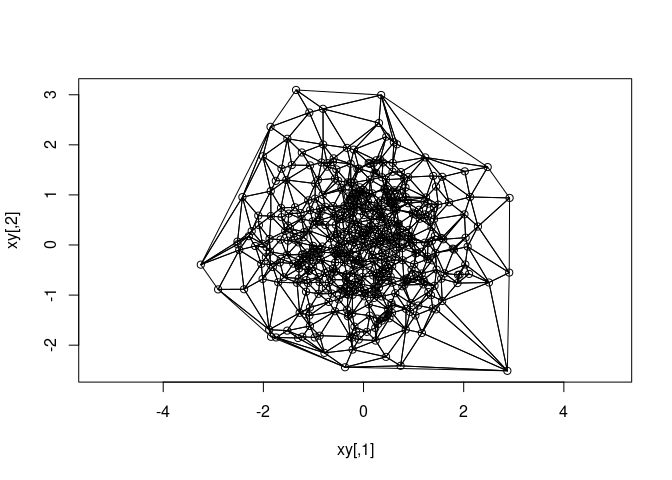
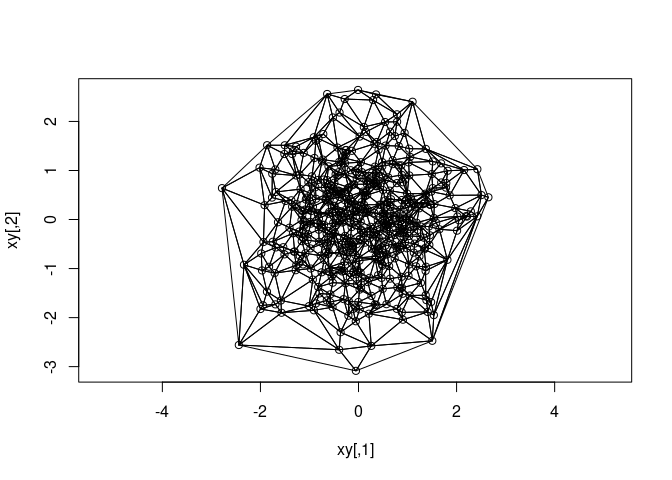
scaff

diff --git a/CODE_OF_CONDUCT.md b/CODE_OF_CONDUCT.md
@@ -1,0 +1,126 @@
+# Contributor Covenant Code of Conduct
+
+## Our Pledge
+
+We as members, contributors, and leaders pledge to make participation in our
+community a harassment-free experience for everyone, regardless of age, body
+size, visible or invisible disability, ethnicity, sex characteristics, gender
+identity and expression, level of experience, education, socio-economic status,
+nationality, personal appearance, race, caste, color, religion, or sexual
+identity and orientation.
+
+We pledge to act and interact in ways that contribute to an open, welcoming,
+diverse, inclusive, and healthy community.
+
+## Our Standards
+
+Examples of behavior that contributes to a positive environment for our
+community include:
+
+* Demonstrating empathy and kindness toward other people
+* Being respectful of differing opinions, viewpoints, and experiences
+* Giving and gracefully accepting constructive feedback
+* Accepting responsibility and apologizing to those affected by our mistakes,
+  and learning from the experience
+* Focusing on what is best not just for us as individuals, but for the overall
+  community
+
+Examples of unacceptable behavior include:
+
+* The use of sexualized language or imagery, and sexual attention or advances of
+  any kind
+* Trolling, insulting or derogatory comments, and personal or political attacks
+* Public or private harassment
+* Publishing others' private information, such as a physical or email address,
+  without their explicit permission
+* Other conduct which could reasonably be considered inappropriate in a
+  professional setting
+
+## Enforcement Responsibilities
+
+Community leaders are responsible for clarifying and enforcing our standards of
+acceptable behavior and will take appropriate and fair corrective action in
+response to any behavior that they deem inappropriate, threatening, offensive,
+or harmful.
+
+Community leaders have the right and responsibility to remove, edit, or reject
+comments, commits, code, wiki edits, issues, and other contributions that are
+not aligned to this Code of Conduct, and will communicate reasons for moderation
+decisions when appropriate.
+
+## Scope
+
+This Code of Conduct applies within all community spaces, and also applies when
+an individual is officially representing the community in public spaces.
+Examples of representing our community include using an official e-mail address,
+posting via an official social media account, or acting as an appointed
+representative at an online or offline event.
+
+## Enforcement
+
+Instances of abusive, harassing, or otherwise unacceptable behavior may be
+reported to the community leaders responsible for enforcement at mdsumner@gmail.com. 
+All complaints will be reviewed and investigated promptly and fairly.
+
+All community leaders are obligated to respect the privacy and security of the
+reporter of any incident.
+
+## Enforcement Guidelines
+
+Community leaders will follow these Community Impact Guidelines in determining
+the consequences for any action they deem in violation of this Code of Conduct:
+
+### 1. Correction
+
+**Community Impact**: Use of inappropriate language or other behavior deemed
+unprofessional or unwelcome in the community.
+
+**Consequence**: A private, written warning from community leaders, providing
+clarity around the nature of the violation and an explanation of why the
+behavior was inappropriate. A public apology may be requested.
+
+### 2. Warning
+
+**Community Impact**: A violation through a single incident or series of
+actions.
+
+**Consequence**: A warning with consequences for continued behavior. No
+interaction with the people involved, including unsolicited interaction with
+those enforcing the Code of Conduct, for a specified period of time. This
+includes avoiding interactions in community spaces as well as external channels
+like social media. Violating these terms may lead to a temporary or permanent
+ban.
+
+### 3. Temporary Ban
+
+**Community Impact**: A serious violation of community standards, including
+sustained inappropriate behavior.
+
+**Consequence**: A temporary ban from any sort of interaction or public
+communication with the community for a specified period of time. No public or
+private interaction with the people involved, including unsolicited interaction
+with those enforcing the Code of Conduct, is allowed during this period.
+Violating these terms may lead to a permanent ban.
+
+### 4. Permanent Ban
+
+**Community Impact**: Demonstrating a pattern of violation of community
+standards, including sustained inappropriate behavior, harassment of an
+individual, or aggression toward or disparagement of classes of individuals.
+
+**Consequence**: A permanent ban from any sort of public interaction within the
+community.
+
+## Attribution
+
+This Code of Conduct is adapted from the [Contributor Covenant][homepage],
+version 2.1, available at
+<https://www.contributor-covenant.org/version/2/1/code_of_conduct.html>.
+
+Community Impact Guidelines were inspired by
+[Mozilla's code of conduct enforcement ladder][https://github.com/mozilla/inclusion].
+
+For answers to common questions about this code of conduct, see the FAQ at
+<https://www.contributor-covenant.org/faq>. Translations are available at <https://www.contributor-covenant.org/translations>.
+
+[homepage]: https://www.contributor-covenant.org

diff --git a/README.md b/README.md
@@ -1,16 +1,23 @@
 
 <!-- README.md is generated from README.Rmd. Please edit that file -->
 
-# delaunator1
+# delaunator
 
 <!-- badges: start -->
 <!-- badges: end -->
 
-The goal of delaunator1 is to …
+The goal of delaunator is to triangulate point sets fast.
+
+We have only wrapped this library for use in R:
+<https://github.com/abellgithub/delaunator-cpp>
+
+WIP: An old benchmark to use for comparison:
+
+<https://rpubs.com/cyclemumner/416456>
 
 ## Installation
 
-You can install the development version of delaunator1 like so:
+You can install the development version of delaunator like so:
 
 ``` r
 # FILL THIS IN! HOW CAN PEOPLE INSTALL YOUR DEV PACKAGE?
@@ -18,24 +25,36 @@ You can install the development version of delaunator1 like so:
 
 ## Example
 
-This is a basic example which shows you how to solve a common problem:
-
 ``` r
-library(delaunator1)
-delaunator1:::delaunator1(matrix(rnorm(6), ncol = 2))
-#> [1] 1 0 2
+library(delaunator)
+delaunator_triangulate(matrix(runif(6), ncol = 2))
+#>      [,1] [,2] [,3]
+#> [1,]    1    3    2
 ```
 
-If you are following along this is unstable and will change, but here’s
-how the elements are oriented (for now).
+``` r
+
+delaunator_triangulate(cbind(1:4, runif(4)))
+#>      [,1] [,2] [,3]
+#> [1,]    2    3    1
+#> [2,]    2    4    3
+```
+
+In the R level we sort out the orientation of inputs and outputs, and
+return a matrix of triangle triplets as rows (1-based).
 
 ``` r
 xy <- matrix(rnorm(1024), ncol = 2)
-#xy <- do.call(cbind, maps::map(plot = TRUE)[1:2])
-## transpose in, for now
-i <- delaunator1:::delaunator1(t(xy)) + 1
+i <- delaunator_triangulate(xy)
 plot(xy, asp = 1)
-polygon(xy[t(cbind(matrix(i, ncol = 3, byrow = TRUE), NA)), ])
+polygon(xy[t(cbind(i, NA)), ])
 ```
 
 <img src="man/figures/README-orientation-1.png" width="100%" />
+
+## Code of Conduct
+
+Please note that the delaunator project is released with a [Contributor
+Code of
+Conduct](https://contributor-covenant.org/version/2/1/CODE_OF_CONDUCT.html).
+By contributing to this project, you agree to abide by its terms.
